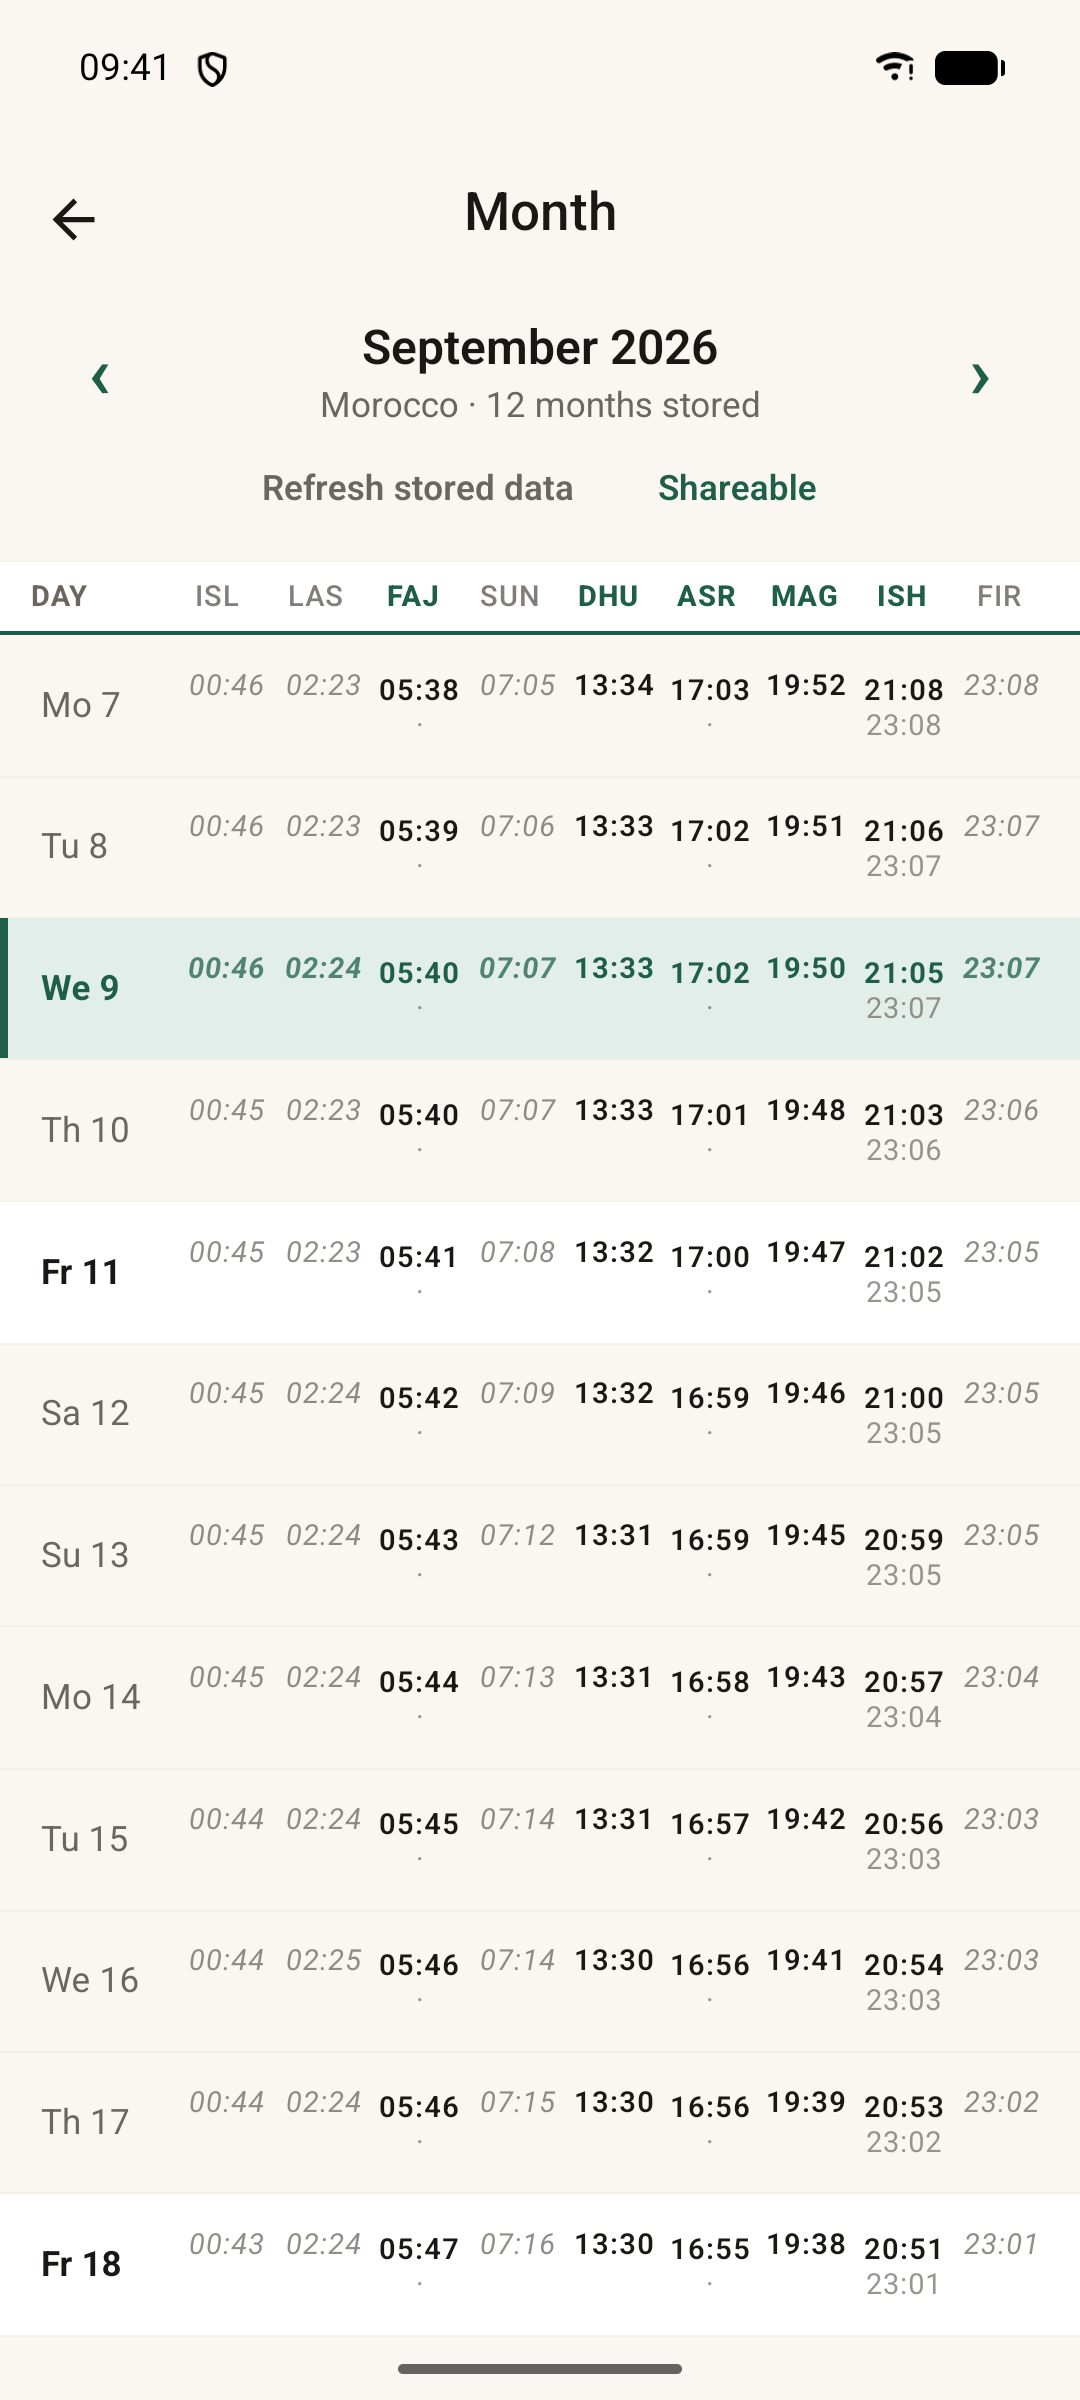
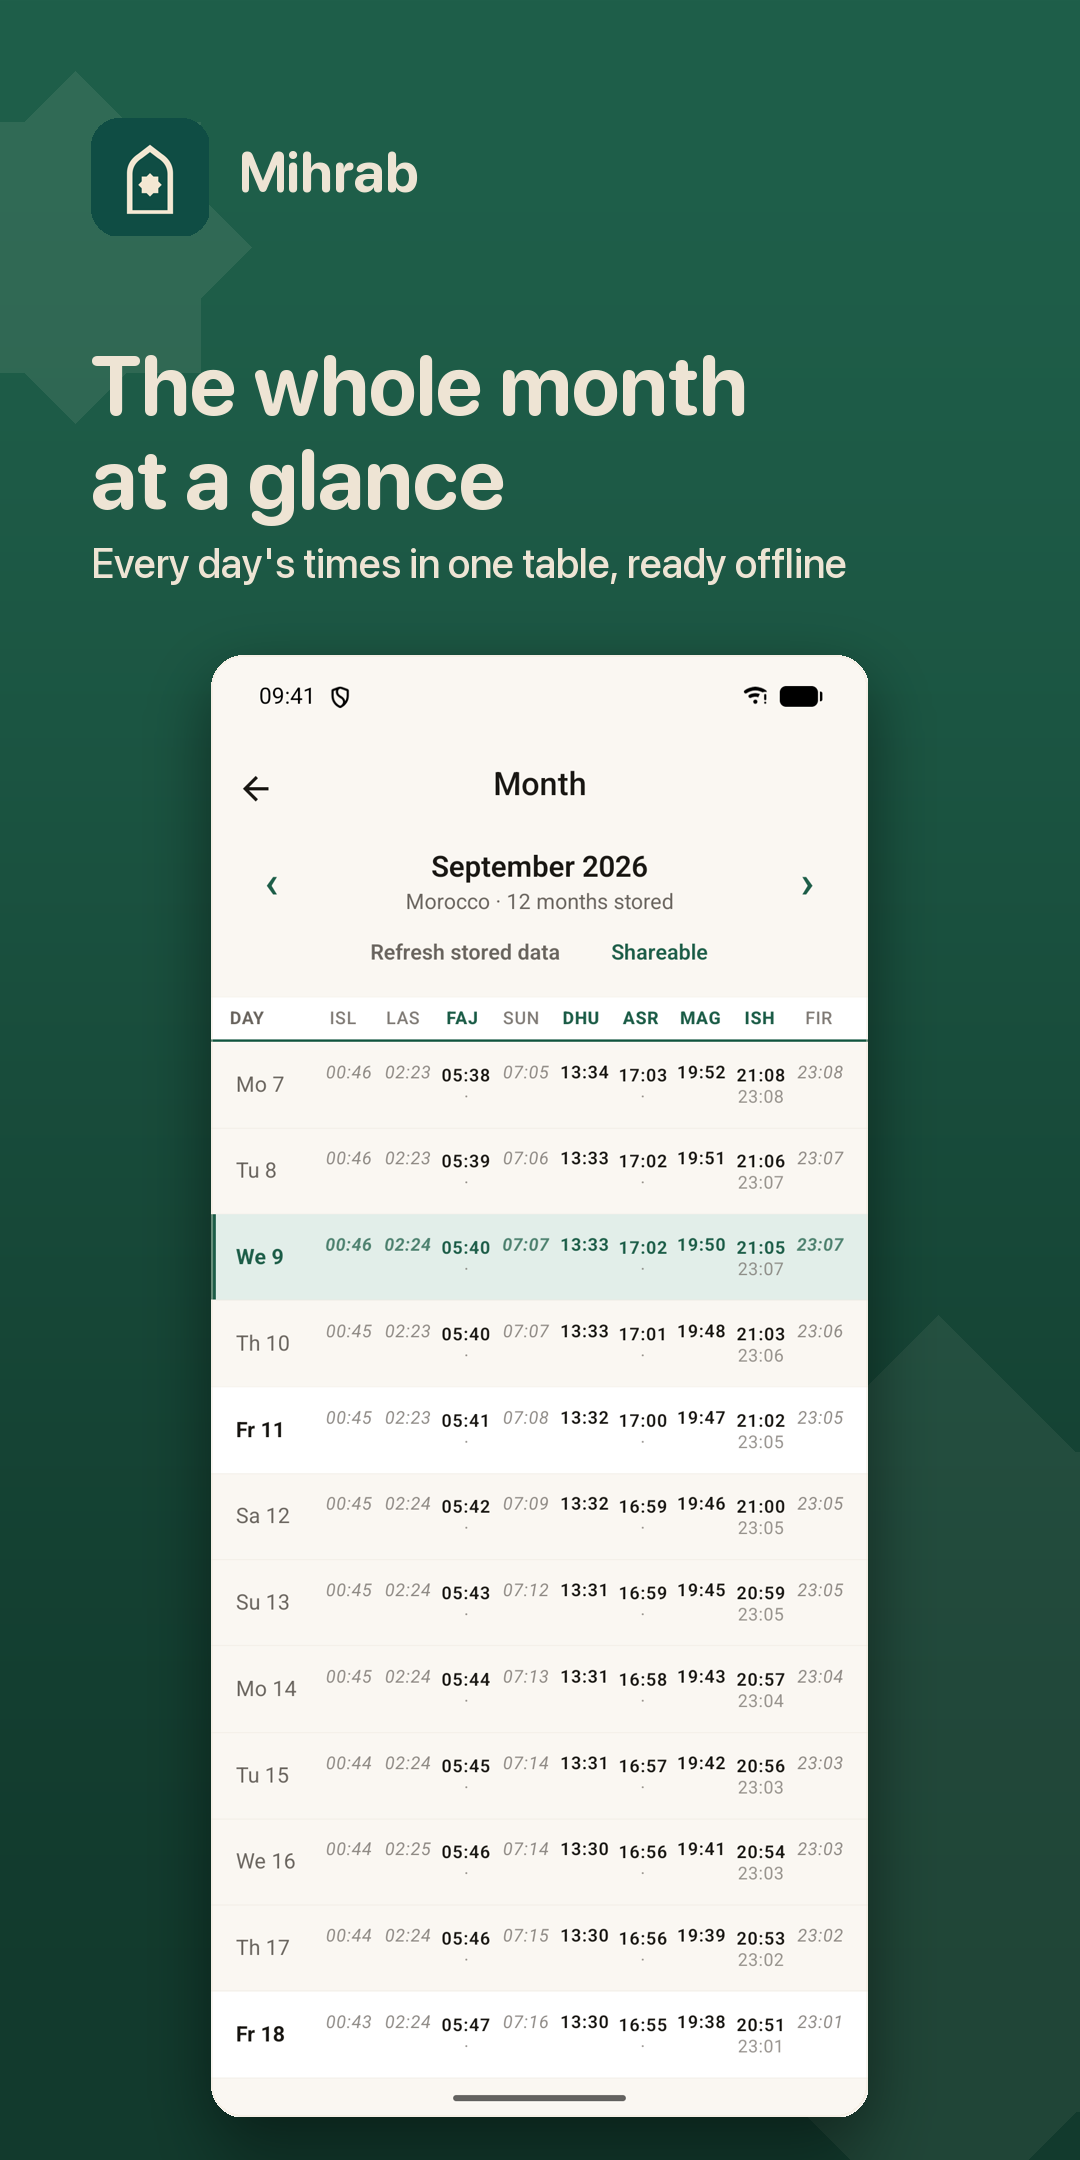
F-Droid gets the captioned panels, not the bare captures
The listing had become two apps: the raw captures this repo sent, beside
the captioned panels F-Droid had kept from an earlier set. build_store.py
sent the raw shot to F-Droid on purpose — "F-Droid shows real screenshots"
— and Play the panel. It sends the panel to both now, under the plain
1-based names F-Droid orders by, and verify_store.py expects the panel
sizes there.

The names in the fastlane folders are now a contract: fdroidserver copies
every file into its own repo directory at build time and never deletes
one, so a renamed screenshot is a second screenshot on the listing until
an F-Droid admin removes the old file. Overwrite, never rename. Written
into build_store.py and docs/DISTRIBUTION.md, with the four leftovers this
turned up named so they can be asked for.

diff --git a/branding/tools/build_store.py b/branding/tools/build_store.py
@@ -95,8 +95,8 @@ SETS = [
     {
         # Play caps a screenshot's long side at twice its short side, so the
         # phone's own 1080x2400 (2.22) cannot be uploaded as-is and the panel
-        # is composed at 1080x2160 (exactly 2.00). The raw shots go to F-Droid
-        # instead, which shows real screenshots rather than marketing panels.
+        # is composed at 1080x2160 (exactly 2.00). F-Droid gets the same
+        # panels, under plain 1-based names — see the note in build().
         "name": "Android phone",
         "src": "branding/store/play",
         "raw_size": (1080, 2400),
@@ -197,11 +197,21 @@ def build(spec):
             jpg = os.path.join(upload, key + ".jpg")
             Image.open(out).convert("RGB").save(jpg, quality=92, subsampling=0)
         if fdroid:
-            # F-Droid orders by file name and shows the shot itself, so the
-            # raw capture goes across under a plain 1-based name.
+            # F-Droid gets the same captioned panel as Play, under a plain
+            # 1-based name because F-Droid orders by file name. It used to
+            # get the raw capture, on the theory that F-Droid shows "real"
+            # screenshots — which put a page of bare captures next to the
+            # panels the listing had inherited, and read as two apps.
+            #
+            # KEEP THESE NAMES STABLE. F-Droid's server copies every file in
+            # this folder into its own repo directory at build time and
+            # never deletes one (fdroidserver update.py, insert_localized_
+            # app_metadata: copy only, no cleanup). A renamed screenshot is a
+            # second screenshot on the listing, forever, until an F-Droid
+            # admin removes the old file by hand. Overwrite; do not rename.
             n = key.split("_", 1)
             plain = "%d_%s.png" % (int(n[0]), n[1]) if n[0].isdigit() else shot
-            Image.open(raw).convert("RGB").save(os.path.join(fdroid, plain))
+            Image.open(out).convert("RGB").save(os.path.join(fdroid, plain))
     went = [d for d in (spec["previews"], spec.get("upload"), spec.get("fdroid")) if d]
     print("%s: %d panels -> %s" % (spec["name"], len(shots), ", ".join(went)))
 

diff --git a/branding/tools/verify_store.py b/branding/tools/verify_store.py
@@ -104,9 +104,13 @@ for rel, size, mode in (
     if im.mode != mode:
         problems.append("%s is %s, wanted %s" % (rel, im.mode, mode))
 
-# ---- F-Droid: real screenshots, no size rule, but still no alpha ----
-folder("fastlane/metadata/android/en-US/images/phoneScreenshots", (1080, 2400), count=(2, 8), exts=(".png",))
-folder("fastlane/metadata/android/en-US/images/tenInchScreenshots", (2560, 1600), count=(2, 8), exts=(".png",))
+# ---- F-Droid: the same captioned panels as Play, no alpha ----
+# The panel sizes, not the raw capture sizes: build_store.py sends the
+# composed panel to F-Droid (its listing had a page of bare captures next to
+# the panels it had inherited, and read as two apps). Names in these folders
+# must stay stable — see the note in build_store.py.
+folder("fastlane/metadata/android/en-US/images/phoneScreenshots", (1080, 2160), count=(2, 8), exts=(".png",))
+folder("fastlane/metadata/android/en-US/images/tenInchScreenshots", (2560, 1440), count=(2, 8), exts=(".png",))
 
 if problems:
     print("%d problem(s) across %d files:\n" % (len(problems), checked))

diff --git a/docs/DISTRIBUTION.md b/docs/DISTRIBUTION.md
@@ -272,7 +272,18 @@ fastlane/metadata/android/en-US/
     └── phoneScreenshots/
 ```
 
-The Play Console reads from these. F-Droid optionally reuses them but our `com.prayer_times.yml` carries its own copy too.
+The Play Console reads from these, and F-Droid copies the screenshot folders
+into its own repo at build time — so what is on the F-Droid listing is
+whatever these folders held at the tagged commit. They hold the same
+captioned panels as Play (`branding/tools/build_store.py` writes both).
+
+**F-Droid never deletes a screenshot it has copied.** fdroidserver copies
+every file in `phoneScreenshots/` into `repo/com.prayer_times/en-US/` and
+has no cleanup step, so a file renamed here becomes a *second* screenshot on
+the listing, under the old name, until an F-Droid admin removes it by hand.
+Overwrite in place; never rename. (Seen 2026-09-11: four July captures
+under old names — `2_quran`, `3_duas`, `4_tasbih`, `5_fasting` — were still
+on the listing beside the current seven.)
 
 ### Flavor specifics
 
